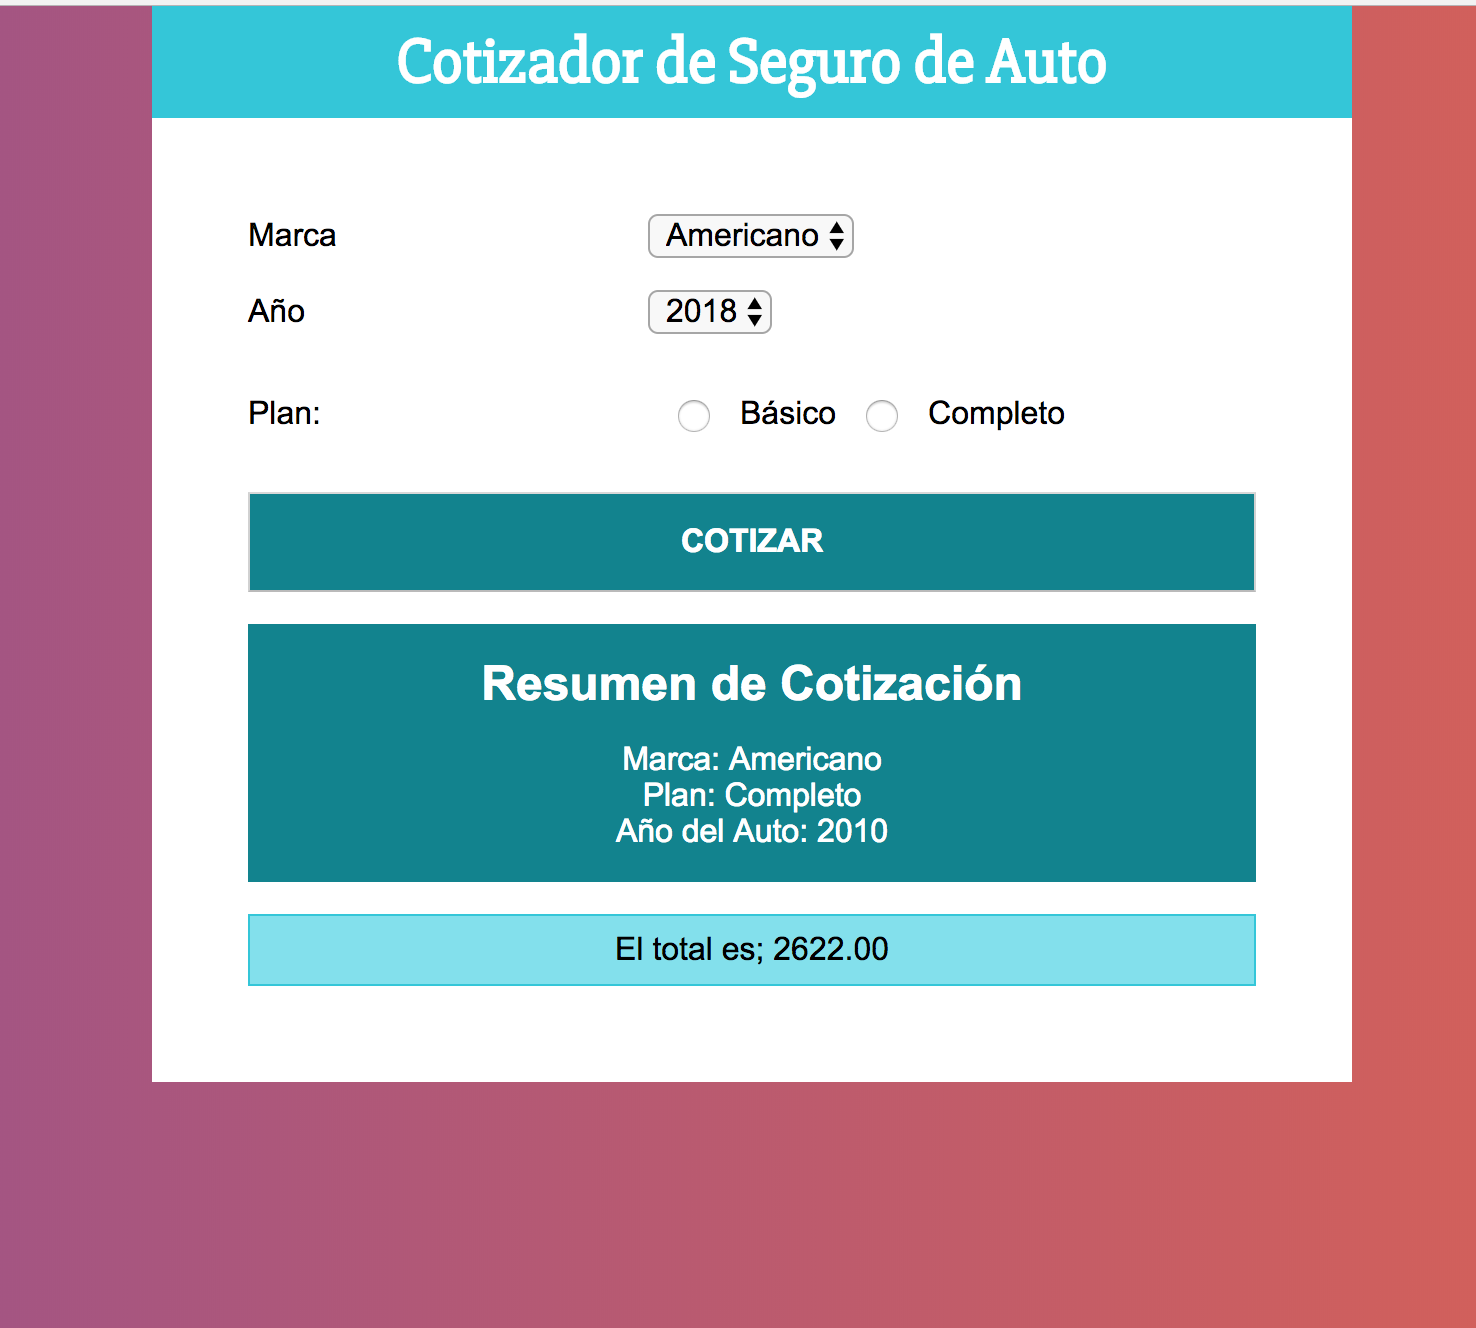
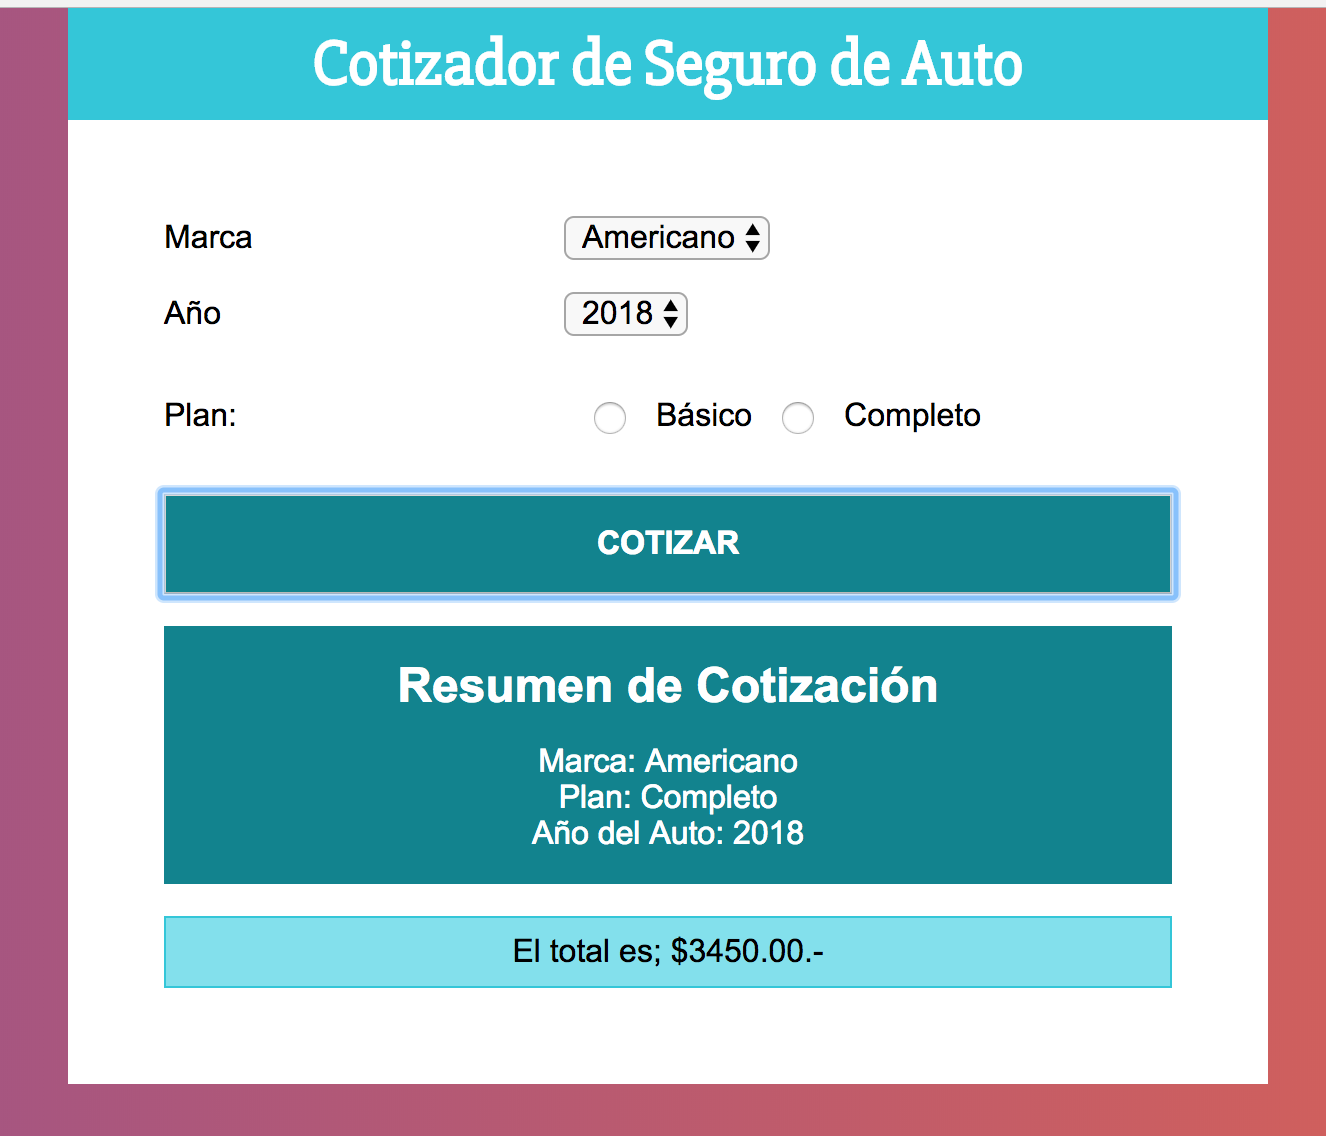
commit

diff --git a/src/components/Resultado.js b/src/components/Resultado.js
@@ -14,7 +14,7 @@ class Resultado extends Component {
 						classNames="resultado"
 						key={resultado}
 						timeout={{enter: 500, exit: 500}} >
-						<span>{resultado}</span>
+						<span>${resultado}.-</span>
 					</CSSTransition>
 				</TransitionGroup>
 			</div>
